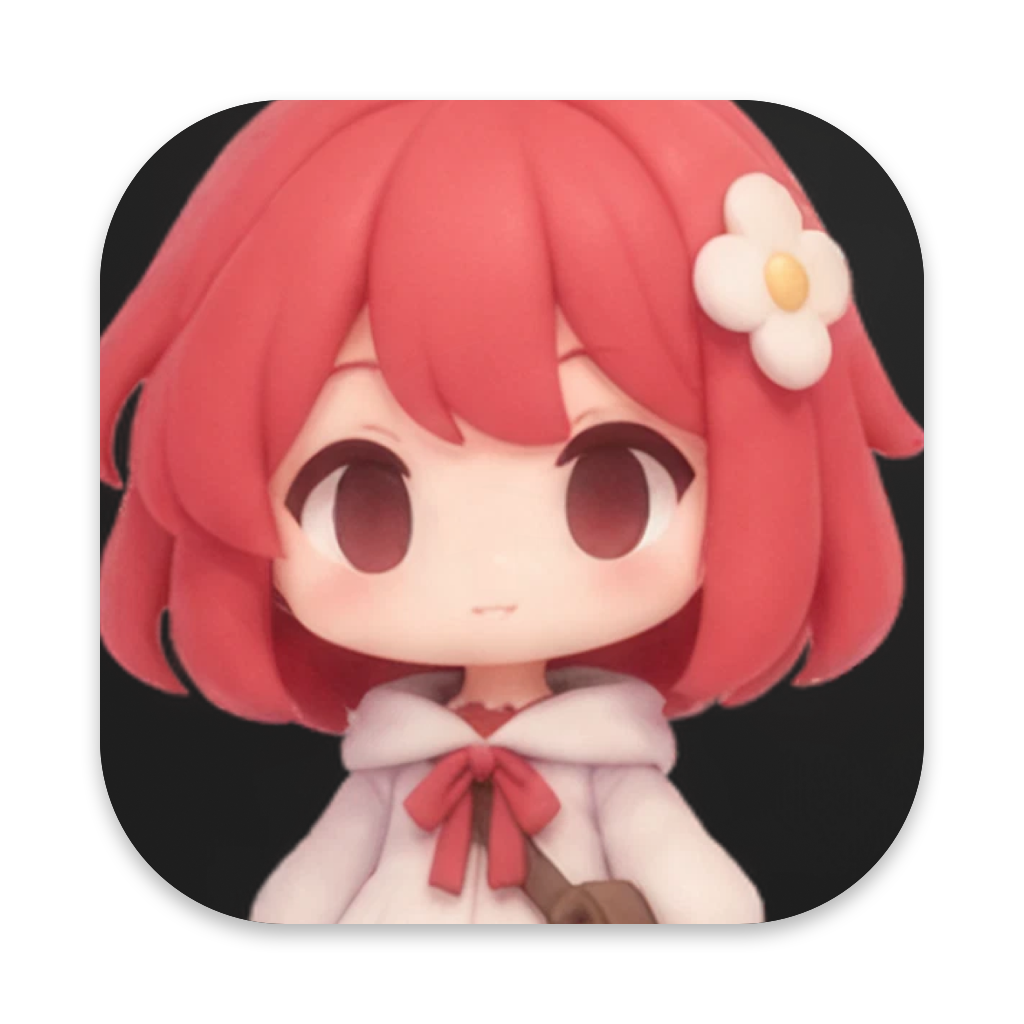
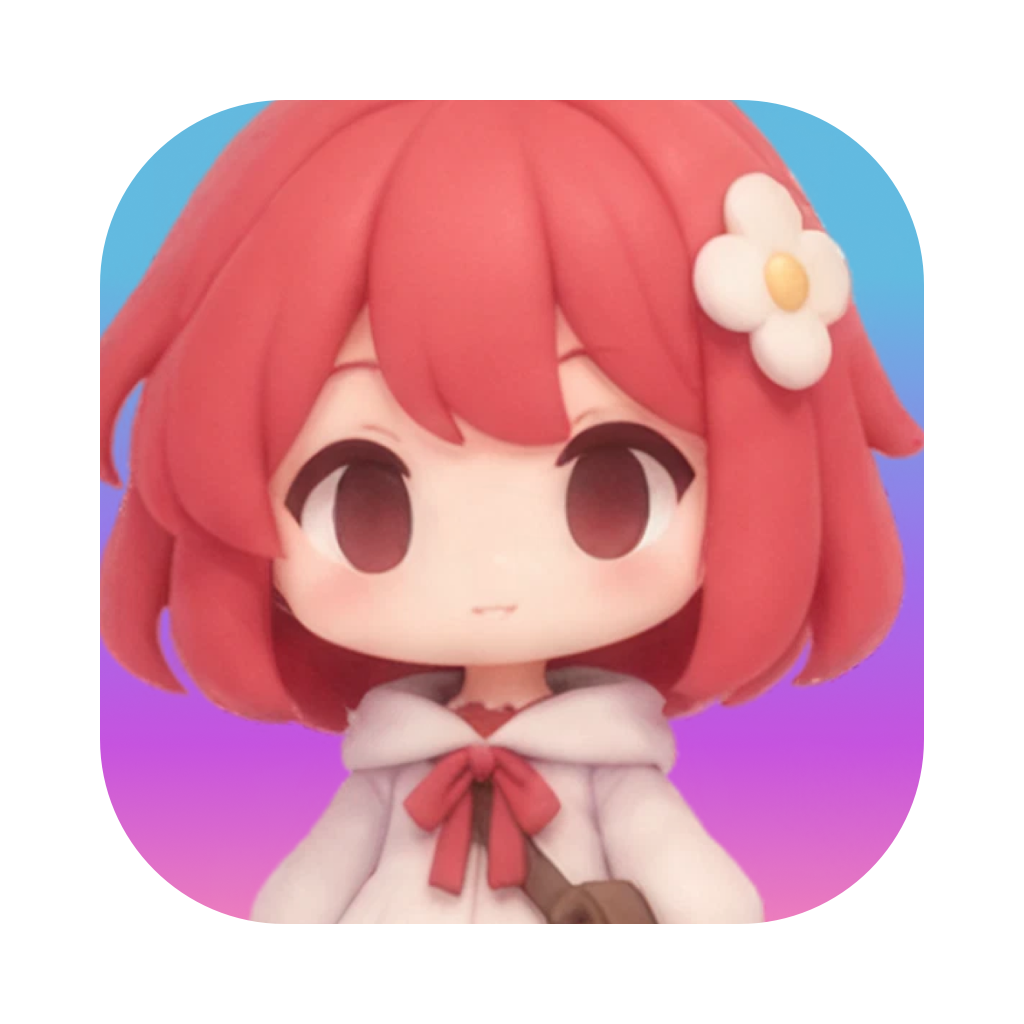
v0.1.1: 목소리 켜면 꽃 가운데 핫핑크, 캐릭터가 묻는 앱 안 업데이트, 새 아이콘과 DMG 배경

Changed region(s): [[0.0938, 0.0938, 0.9062, 0.9375]]

diff --git a/app/helper/bubble.swift b/app/helper/bubble.swift
@@ -12,6 +12,8 @@
 //   {"op":"scan","px":..,"py":..,"cell":16}         그 점이 있는 화면을 찍어 칸마다 복잡도를 잰다(혼자 돌아다니기용)
 //   {"op":"step","px":..,"py":..,"m":[a,b,c,d]}     발자국 하나: 단위 원을 (a,b)·(c,d) 열로 옮긴 타원(pt, y 아래 +), 2초에 걸쳐 사라짐
 //   {"op":"speak","text":"…"} {"op":"voiceoff"}     캐릭터의 말을 Supertonic 3 로 읽기 / 끄기(엔진도 내린다)
+//   {"op":"upcheck"}                                GitHub 최신 릴리스와 이 앱 버전을 비교한다
+//   {"op":"upinstall","url":"zip 주소","pid":Godot pid}  받아서 풀고, Godot 가 끝나면 번들을 바꿔 다시 띄운다
 //   {"op":"ctx"}                                    맥과 주변 정보(일정·할 일·날씨·지금 쓰는 앱·음악 등)를 모아 돌려준다
 //   {"op":"act","id":n,"name":"music|volume|open_app|open_url|add_reminder|add_event","input":{…}}  다른 앱 움직이기
 // 표준 출력(한 줄씩): "over"/"out"(마우스가 글씨 위에 들어옴/나감) | "click"(글씨를 누름) | "typing"(입력칸에 처음 글을 침)
@@ -19,6 +21,8 @@
 //                   | "menu <버튼 이름>"(메뉴 버튼을 누름) | "menuclose"(바깥을 눌렀거나 한동안 안 써서 닫힘)
 //                   | "ctx <base64 글>"(맥과 주변 정보, 한 줄에 하나씩, 한국어)
 //                   | "voicedone"(읽던 말을 다 읽음, 또는 못 읽음)
+//                   | "update <새 버전> <zip 주소>" | "noupdate <지금 버전>" | "upready"(설치 준비 끝, 앱을 끝내면 바뀜)
+//                   | "upfail"(받기·풀기 실패)
 //                   | "acted <id> ok|fail <base64 한마디>"(act 결과)
 //                   | "grid <열> <행> <화면 x> <화면 y> <칸 pt> <base64 busy> <base64 edge>" | "noscan"(권한 없음·실패)
 // 표준 입력이 닫히면(앱이 끝나면) 같이 끝난다.
@@ -612,6 +616,8 @@ final class Talk: NSObject, NSTextFieldDelegate {
         case "menu": showMenu(dir: j["dir"] as? String ?? "", items: j["items"] as? [String] ?? [])
         case "hidemenu": hideMenu()
         case "ctx": macContext.gather()
+        case "upcheck": updater.check()
+        case "upinstall": updater.install(j["url"] as? String ?? "", pid: j["pid"] as? Int ?? 0)
         case "speak": voice.speak(j["text"] as? String ?? "")
         case "voiceoff": voice.off()
         case "step":
@@ -622,6 +628,86 @@ final class Talk: NSObject, NSTextFieldDelegate {
         case "scan": scan(at: CGPoint(x: j["px"] as? Double ?? 0, y: j["py"] as? Double ?? 0), cell: CGFloat(j["cell"] as? Double ?? 16))
         default: break
         }
+    }
+}
+
+// ---------------------------------------------------------------- 업데이트
+// 02rapi·36NOCH 방식: GitHub 공개 저장소의 releases/latest 태그를 이 앱 버전(CFBundleShortVersionString)과
+// 비교하고, 첨부된 zip 을 받아 풀어 둔다. 실제 교체는 Godot 가 끝난 뒤 작은 셸이 한다(실행 중인 번들은 못 바꿔서).
+// 내보낸 .app 안에서만 동작한다(개발 실행은 Bundle.main 이 앱이 아님).
+let releaseAPI = URL(string: "https://api.github.com/repos/marzipan2025/37RHHG/releases/latest")!
+
+final class Updater {
+    var bundle: URL { Bundle.main.bundleURL }
+    var current: String {
+        ProcessInfo.processInfo.environment["RHHG_UPDATE_CURRENT_VERSION"]   // 시험용
+            ?? Bundle.main.object(forInfoDictionaryKey: "CFBundleShortVersionString") as? String ?? "0"
+    }
+
+    static func newer(_ a: String, than b: String) -> Bool {
+        let x = a.split(separator: ".").map { Int($0) ?? 0 }, y = b.split(separator: ".").map { Int($0) ?? 0 }
+        for i in 0..<max(x.count, y.count) {
+            let p = i < x.count ? x[i] : 0, q = i < y.count ? y[i] : 0
+            if p != q { return p > q }
+        }
+        return false
+    }
+
+    func check() {
+        guard bundle.pathExtension == "app" else { return }
+        var r = URLRequest(url: releaseAPI, timeoutInterval: 15)
+        r.setValue("application/vnd.github+json", forHTTPHeaderField: "Accept")
+        URLSession.shared.dataTask(with: r) { d, resp, _ in
+            guard (resp as? HTTPURLResponse)?.statusCode == 200,
+                  let j = d.flatMap({ try? JSONSerialization.jsonObject(with: $0) as? [String: Any] }),
+                  let tag = j["tag_name"] as? String, let assets = j["assets"] as? [[String: Any]] else { return }
+            let v = tag.hasPrefix("v") ? String(tag.dropFirst()) : tag
+            let zip = assets.first { ($0["name"] as? String)?.hasSuffix(".zip") == true }?["browser_download_url"] as? String
+            DispatchQueue.main.async {
+                if Updater.newer(v, than: self.current), let zip { emit("update \(v) \(zip)") }
+                else { emit("noupdate \(self.current)") }
+            }
+        }.resume()
+    }
+
+    func install(_ url: String, pid: Int) {
+        guard bundle.pathExtension == "app", let u = URL(string: url), pid > 0 else { emit("upfail"); return }
+        let work = FileManager.default.temporaryDirectory.appendingPathComponent("rhhg-update-\(UUID().uuidString)")
+        URLSession.shared.downloadTask(with: u) { file, resp, _ in
+            func fail() { DispatchQueue.main.async { emit("upfail") } }
+            guard let file, (resp as? HTTPURLResponse)?.statusCode == 200 else { return fail() }
+            let fm = FileManager.default
+            try? fm.createDirectory(at: work, withIntermediateDirectories: true)
+            let zip = work.appendingPathComponent("u.zip")
+            guard (try? fm.moveItem(at: file, to: zip)) != nil,
+                  Updater.run("/usr/bin/ditto", ["-x", "-k", zip.path, work.path]) else { return fail() }
+            guard let app = (try? fm.contentsOfDirectory(atPath: work.path))?.first(where: { $0.hasSuffix(".app") })
+            else { return fail() }
+            let staged = work.appendingPathComponent(app)
+            _ = Updater.run("/usr/bin/xattr", ["-dr", "com.apple.quarantine", staged.path])
+            // Godot 가 끝나기를 기다렸다가 옛 번들을 새것으로 바꾸고 다시 띄운다(이 도우미도 그때 같이 끝난다).
+            let target = self.bundle.path
+            let sh = "while /bin/kill -0 \(pid) 2>/dev/null; do sleep 0.2; done; sleep 0.5; " +
+                "/bin/rm -rf \"$1\" && /bin/mv \"$0\" \"$1\" && /bin/rm -rf \"$2\"; /usr/bin/open \"$1\""
+            let p = Process()
+            p.executableURL = URL(fileURLWithPath: "/bin/sh")
+            p.arguments = ["-c", sh, staged.path, target, work.path]
+            p.standardOutput = FileHandle.nullDevice
+            p.standardError = FileHandle.nullDevice
+            do { try p.run() } catch { return fail() }
+            DispatchQueue.main.async { emit("upready") }
+        }.resume()
+    }
+
+    static func run(_ path: String, _ args: [String]) -> Bool {
+        let p = Process()
+        p.executableURL = URL(fileURLWithPath: path)
+        p.arguments = args
+        p.standardOutput = FileHandle.nullDevice
+        p.standardError = FileHandle.nullDevice
+        do { try p.run() } catch { return false }
+        p.waitUntilExit()
+        return p.terminationStatus == 0
     }
 }
 
@@ -1424,6 +1510,7 @@ app.setActivationPolicy(.accessory)
 let talk = Talk()
 let macContext = MacContext()
 let prints = Prints()
+let updater = Updater()
 let voice = Voice()
 Thread.detachNewThread {
     while let line = readLine() {

diff --git a/packaging/make_icon.swift b/packaging/make_icon.swift
@@ -1,0 +1,17 @@
+// 정사각 그림을 macOS 아이콘 틀(1024 캔버스 안 824 둥근 사각, 반지름 185)에 맞춰 자른다.
+// 쓰기: swift packaging/make_icon.swift 원본.png app/icon.png
+import AppKit
+let a = CommandLine.arguments
+let src = NSImage(contentsOfFile: a[1])!
+let size = 1024, inset: CGFloat = 100, r: CGFloat = 185
+let rep = NSBitmapImageRep(bitmapDataPlanes: nil, pixelsWide: size, pixelsHigh: size, bitsPerSample: 8,
+                           samplesPerPixel: 4, hasAlpha: true, isPlanar: false, colorSpaceName: .deviceRGB,
+                           bytesPerRow: 0, bitsPerPixel: 0)!
+NSGraphicsContext.saveGraphicsState()
+NSGraphicsContext.current = NSGraphicsContext(bitmapImageRep: rep)
+NSGraphicsContext.current?.imageInterpolation = .high
+let box = NSRect(x: inset, y: inset, width: CGFloat(size) - inset * 2, height: CGFloat(size) - inset * 2)
+NSBezierPath(roundedRect: box, xRadius: r, yRadius: r).addClip()
+src.draw(in: box, from: .zero, operation: .copy, fraction: 1)
+NSGraphicsContext.restoreGraphicsState()
+try! rep.representation(using: .png, properties: [:])!.write(to: URL(fileURLWithPath: a[2]))

diff --git a/CLAUDE.md b/CLAUDE.md
@@ -86,7 +86,16 @@
 - 엔진은 Supertonic 3(로컬 ONNX), 목소리 F1, steps 8, speed 1.05. `app/helper/tts_daemon.py`(빌드가 Resources 로 복사)를 22SUTO 의 파이썬 환경(`~/Library/Application Support/22SUTO/venv/bin/python -I`)으로 띄워 모델(`~/.cache/supertonic3`, 385MB)을 빌려 쓴다. 22SUTO 가 없는 맥(회사 맥 등)에서는 조용히 안 읽는다.
 - 도우미의 `Voice`가 wav 를 받아 AVAudioEngine 으로 재생하면서 음만 +450 cent(`voicePitch`, 반음 4.5개. 2026-11-15 F5+300 → F1+450) 올려 여자아이처럼(빠르기는 그대로). 한 줄 만드는 데 0.7~0.95초(이 맥 실측), 모델 올리기 0.5초. Mute 를 누르면 엔진 프로세스를 내려 메모리(~400MB)를 비운다.
 - 읽는 동안(만드는 1초 포함)은 말풍선이 사라지지 않는다(`talk.voicing`). 도우미가 스피커로 다 내보낸 뒤(`.dataPlayedBack`) 또는 못 읽을 때 "voicedone" 을 주면 풀리고, 표시 시간이 이미 지났으면 1초 뒤 닫힌다. 30초 넘게 소식이 없으면 그냥 푼다(`SPEAK_MAX`).
+- 목소리를 켜면 머리 꽃핀 가운데(노랑)가 밝은 핫핑크(1.0, 0.24, 0.66)로 바뀐다(Haiku·Sonnet 공통, `face.gdshader`의 `bloom`, `main.gd`의 `_bloom_step`이 `TINT_TIME`에 걸쳐). 노랑을 색상(0.14)·채도·명도로 고르고 머리 높이(`BLOOM_MIN_Y` 머리 뼈 −10cm 위)만 바꾼다(가방 고리·신발에도 노란 점이 있어서). 확인: `--snapshot`의 `bloom_body_mask`(초록), `bloom_body`·`_side`·`_back`.
 - 2026-11-14 처음엔 맥 기본 음성(AVSpeechSynthesizer 유나, 프리미엄 포함)을 음 높여 썼는데 어색해서 뺐다.
+
+### 업데이트·릴리스 (2026-11-15)
+
+- 저장소는 2026-11-15 공개로 바꿨다(앱이 GitHub 릴리스를 키 없이 확인해야 해서. 02rapi·36NOCH 와 같은 방식).
+- 앱 안 업데이트: 켜고 10초 뒤, 그 뒤 6시간마다 도우미(`Updater`)가 `releases/latest` 태그를 이 앱 버전(Info.plist 의 CFBundleShortVersionString = `export_presets.cfg`의 `short_version`)과 비교한다. 새 버전이면 캐릭터가 "새 버전 vX이 나왔어! 지금 업데이트할까?"라고 묻고 입력칸이 뜬다(말풍선이 없고 대답 대기·메뉴가 아닐 때). "응/네/그래/좋아/해/업데이트…"로 시작하면 zip 을 받아 풀고(격리 표시 지움) 앱을 끝낸다 → 작은 셸이 Godot 가 끝나길 기다려 번들을 바꾸고 다시 띄운다. 다시 뜬 앱은 `state.updated_to`를 보고 "업데이트 끝! 이제 vX야."라고 말한다. 거절하거나 입력칸이 그냥 닫히면 3시간 뒤 다시 묻는다. 내보낸 .app 안에서만 동작.
+- 시험: 앱 사본의 도우미를 `RHHG_UPDATE_CURRENT_VERSION=0.0.1`로 띄워 `upcheck`·`upinstall`(pid 는 아무 sleep 프로세스)을 보내면 사본이 최신 릴리스로 바뀌고 다시 뜬다(2026-11-15 확인).
+- 릴리스 만들기: `export_presets.cfg`의 `short_version`을 올린 뒤(번호는 사용자에게 물을 것) `zsh packaging/make_dmg.sh` → `build/release/37RHHG-<버전>.dmg`(배경 그림 `packaging/dmg_background.png`, 창 640×480, 앱 (190,242)·응용 프로그램 (450,242)) + `37RHHG-v<버전>.zip`(앱 안 업데이트가 받는 것). `gh release create v<버전> dmg zip --notes-file …`. zip 이 꼭 있어야 업데이트가 된다.
+- 앱 아이콘: `swift packaging/make_icon.swift 원본.png app/icon.png`(1024 캔버스 안 824 둥근 사각으로 자름).
 
 ### 프레임 (2026-11-14)
 
